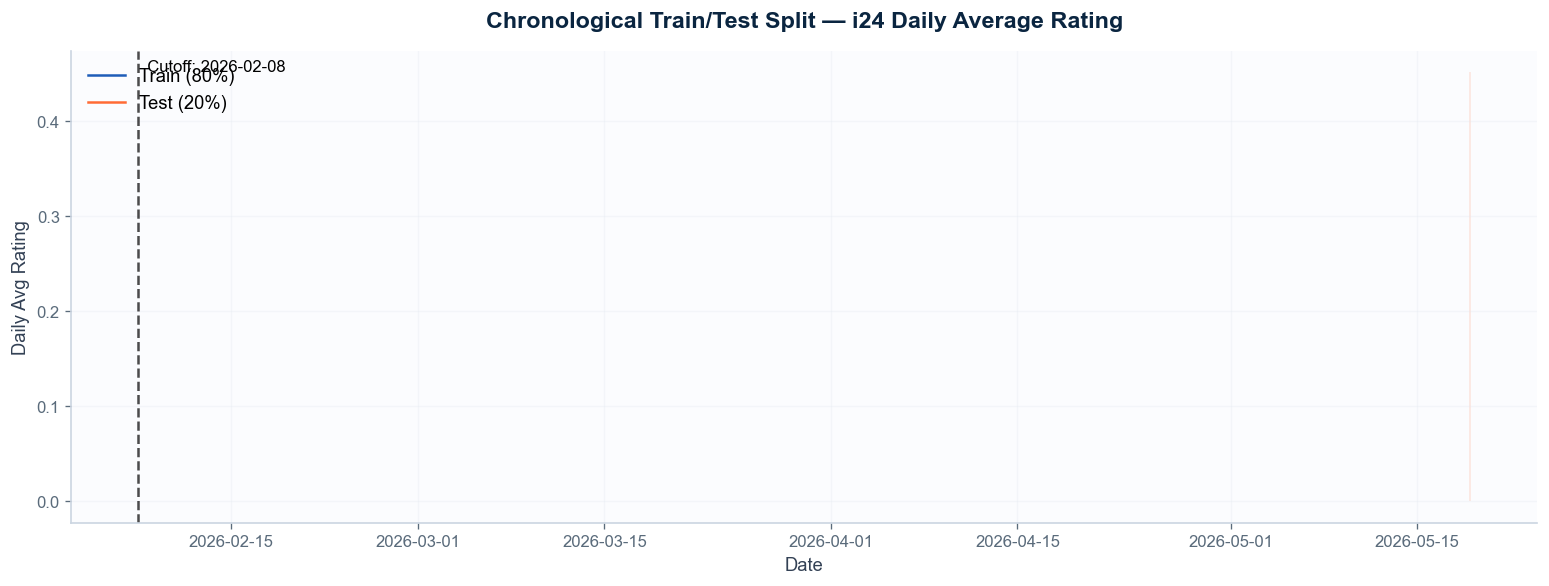
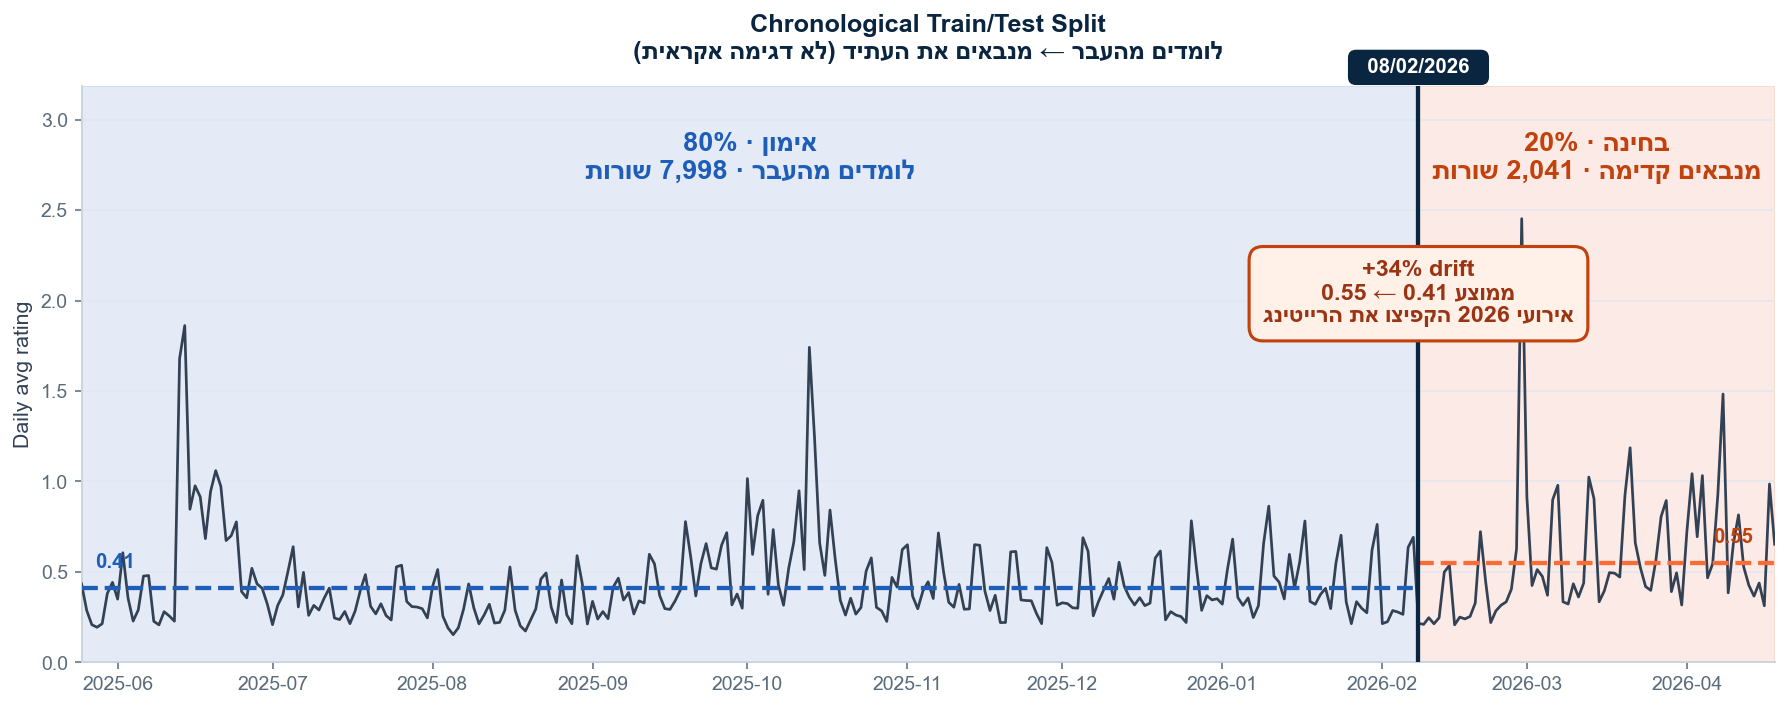
Fix & redesign chart 2: it was reading the time column, not date
Chart 2 used iloc[:,3] (start time) as the date, so it rendered
nearly empty. Now uses the real date + raw-rating columns and is
redesigned for clarity: shaded train/test zones, 80/20 labels,
dashed means, and a +34% drift callout (the project's key insight).

diff --git a/algo_visualizations.py b/algo_visualizations.py
@@ -135,27 +135,85 @@ plt.close()
 
 # ===== 2. Train/Test Chronological Split =====
 print("2. Chronological Split...")
-df_sorted = df_data.copy()
-df_sorted['date_parsed'] = pd.to_datetime(df_sorted.iloc[:, 3], errors='coerce')
-df_sorted = df_sorted.dropna(subset=['date_parsed']).sort_values('date_parsed').reset_index(drop=True)
+# עמודה 2 = תאריך, עמודה 6 = רייטינג גולמי (היעד)
+dfc = df_data.copy()
+dfc['d'] = pd.to_datetime(dfc.iloc[:, 2], errors='coerce')
+dfc['r'] = pd.to_numeric(dfc.iloc[:, 6], errors='coerce')
+dfc = dfc.dropna(subset=['d', 'r']).sort_values('d')
 cutoff = pd.Timestamp('2026-02-08')
 
-fig, ax = plt.subplots(figsize=(13, 5))
-daily = df_sorted.groupby(df_sorted['date_parsed'].dt.date)[actual_col if actual_col in df_sorted.columns else df_sorted.columns[8]].mean()
+daily = dfc.groupby(dfc['d'].dt.date)['r'].mean()
 daily.index = pd.to_datetime(daily.index)
-train_mask = daily.index < cutoff
+d0, d1 = daily.index.min(), daily.index.max()
 
-ax.plot(daily.index[train_mask], daily[train_mask], color=BLUE, linewidth=1.5, label='Train (80%)')
-ax.plot(daily.index[~train_mask], daily[~train_mask], color=ACCENT, linewidth=1.5, label='Test (20%)')
-ax.axvline(cutoff, color='black', linestyle='--', alpha=0.7)
-ax.text(cutoff, ax.get_ylim()[1] * 0.95, f'  Cutoff: {cutoff.strftime("%Y-%m-%d")}', fontsize=10, color='black')
-ax.fill_between(daily.index[train_mask], 0, daily[train_mask], alpha=0.15, color=BLUE)
-ax.fill_between(daily.index[~train_mask], 0, daily[~train_mask], alpha=0.15, color=ACCENT)
-ax.set_title("Chronological Train/Test Split — i24 Daily Average Rating", fontsize=14, fontweight='bold')
-ax.set_xlabel("Date"); ax.set_ylabel("Daily Avg Rating")
-ax.legend(loc='upper left', fontsize=11); ax.grid(alpha=0.3)
+is_train = dfc['d'] < cutoff
+n_tr, n_te = int(is_train.sum()), int((~is_train).sum())
+m_tr, m_te = dfc.loc[is_train, 'r'].mean(), dfc.loc[~is_train, 'r'].mean()
+drift = (m_te / m_tr - 1) * 100
+
+fig, ax = plt.subplots(figsize=(13, 5.2))
+ymax = daily.max() * 1.30
+ax.set_xlim(d0, d1)
+ax.set_ylim(0, ymax)
+
+
+def ml(*lines):
+    return "\n".join(rtl(x) for x in lines)
+
+
+# אזורי זמן צבעוניים — הפיצול גלוי מיד
+ax.axvspan(d0, cutoff, color=BLUE, alpha=0.10, zorder=0)
+ax.axvspan(cutoff, d1, color=ACCENT, alpha=0.12, zorder=0)
+
+# קו הרייטינג היומי
+ax.plot(daily.index, daily.values, color='#334155', linewidth=1.4,
+        zorder=3, label=rtl('רייטינג יומי ממוצע'))
+
+# קווי ממוצע — מראים את ה-drift
+ax.hlines(m_tr, d0, cutoff, color=BLUE, linestyle='--', linewidth=2.2, zorder=4)
+ax.hlines(m_te, cutoff, d1, color=ACCENT, linestyle='--', linewidth=2.2, zorder=4)
+
+# קו החיתוך
+ax.axvline(cutoff, color='#0A2540', linestyle='-', linewidth=2.2, zorder=5)
+ax.text(cutoff, ymax * 1.015, f"  {cutoff.strftime('%d/%m/%Y')}  ",
+        ha='center', va='bottom', fontsize=10.5, fontweight='bold',
+        color='white', zorder=6,
+        bbox=dict(boxstyle='round,pad=0.4', fc='#0A2540', ec='none'))
+
+# תוויות אזור גדולות
+xt = d0 + (cutoff - d0) / 2
+xe = cutoff + (d1 - cutoff) / 2
+ax.text(xt, ymax * 0.92, ml('אימון · 80%', f'לומדים מהעבר · {n_tr:,} שורות'),
+        ha='center', va='top', fontsize=14, fontweight='bold',
+        color=BLUE, zorder=6)
+ax.text(xe, ymax * 0.92, ml('בחינה · 20%', f'מנבאים קדימה · {n_te:,} שורות'),
+        ha='center', va='top', fontsize=14, fontweight='bold',
+        color='#C2410C', zorder=6)
+
+# תוויות מספר קטנות על קווי הממוצע (בקצוות, ללא התנגשות)
+ax.text(d0 + (cutoff - d0) * 0.01, m_tr + ymax * 0.028, f'{m_tr:.2f}',
+        ha='left', va='bottom', fontsize=10.5, color=BLUE,
+        fontweight='bold', zorder=6)
+ax.text(d1 - (d1 - cutoff) * 0.06, m_te + ymax * 0.028, f'{m_te:.2f}',
+        ha='right', va='bottom', fontsize=10.5, color='#C2410C',
+        fontweight='bold', zorder=6)
+
+# קאלאוט ה-drift — התובנה המרכזית, במרחב פנוי מעל קו-החיתוך
+ax.text(cutoff, ymax * 0.64,
+        ml(f'+{drift:.0f}% drift',
+           f'ממוצע {m_tr:.2f} ← {m_te:.2f}',
+           'אירועי 2026 הקפיצו את הרייטינג'),
+        ha='center', va='center', fontsize=12, fontweight='bold',
+        color='#9A3412', zorder=7,
+        bbox=dict(boxstyle='round,pad=0.6', fc='#FFF1E8',
+                  ec='#C2410C', lw=1.6))
+
+ax.set_title("Chronological Train/Test Split\n"
+             + rtl("לומדים מהעבר ← מנבאים את העתיד (לא דגימה אקראית)"))
+ax.set_ylabel("Daily avg rating")
+ax.set_xlabel("")
 plt.tight_layout()
-plt.savefig(VIZ / "02_chronological_split.png", bbox_inches='tight', dpi=120)
+plt.savefig(VIZ / "02_chronological_split.png", bbox_inches='tight', dpi=140)
 plt.close()
 
 # ===== 3. Predicted vs Actual — HistGB Winner =====

diff --git a/WORK_LOG.md b/WORK_LOG.md
@@ -5,6 +5,18 @@
 
 ---
 
+## 2026-05-19 — שלב 32: תיקון ושכתוב גרף 2 (Train/Test כרונולוגי)
+
+המשתמשת דיווחה שגרף 2 "לא ברור מספיק" — בפועל הוא היה **שבור** (כמעט ריק): השתמש ב-`iloc[:,3]` שהיא **שעת התחלה** (לא תאריך), ו-`columns[8]` כערך.
+
+### תיקון
+- עמודות נכונות: עמודה 2 = תאריך (2025-05-25→2026-04-18), עמודה 6 = רייטינג גולמי (היעד)
+- שוכתב לבהירות מנהלים: אזורי **אימון/בחינה** צבעוניים מלאי-גובה + תוויות גדולות (80%/20% + ספירת שורות), קו-חיתוך מודגש עם תג תאריך, קווי-ממוצע מקווקווים, וקאלאוט **+34% drift** (0.41→0.55) — התובנה המרכזית של הפרוייקט
+- עברית דרך `rtl()` (bidi); תווית ציר-Y באנגלית (עברית אנכית נשברת ב-matplotlib)
+- אומת ויזואלית; הועתק ל-`docs/viz/`
+
+---
+
 ## 2026-05-19 — שלב 31: ריענון עיצוב 8 הגרפים
 
 `algo_visualizations.py` — נוספה ערכת-עיצוב גלובלית אחת (`mpl.rcParams.update`) שמאחדת את כל 8 הגרפים ומורידה את המראה ה"אקדמי": רקע לבן/אוף-וייט עדין, ללא spines עליון/ימני, גריד-y בהיר, כותרות bold בנייבי-מותג, צבעים/פונטים אחידים.